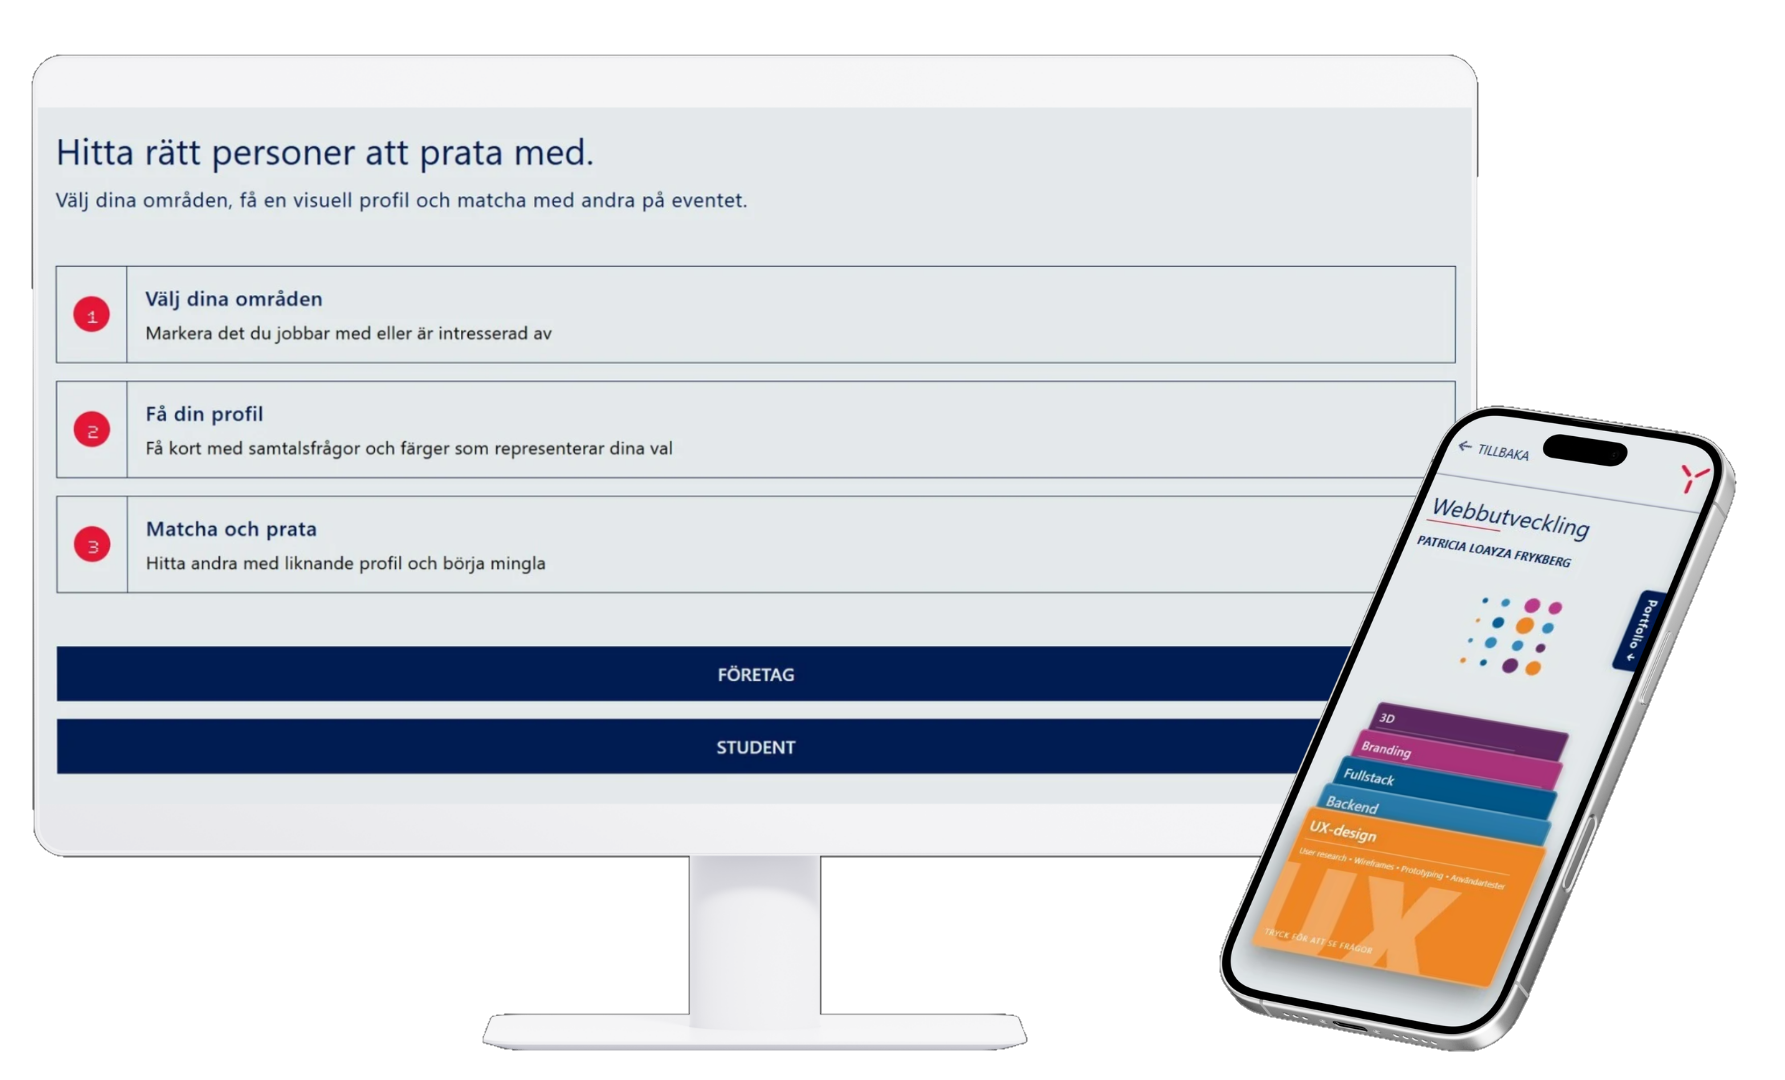
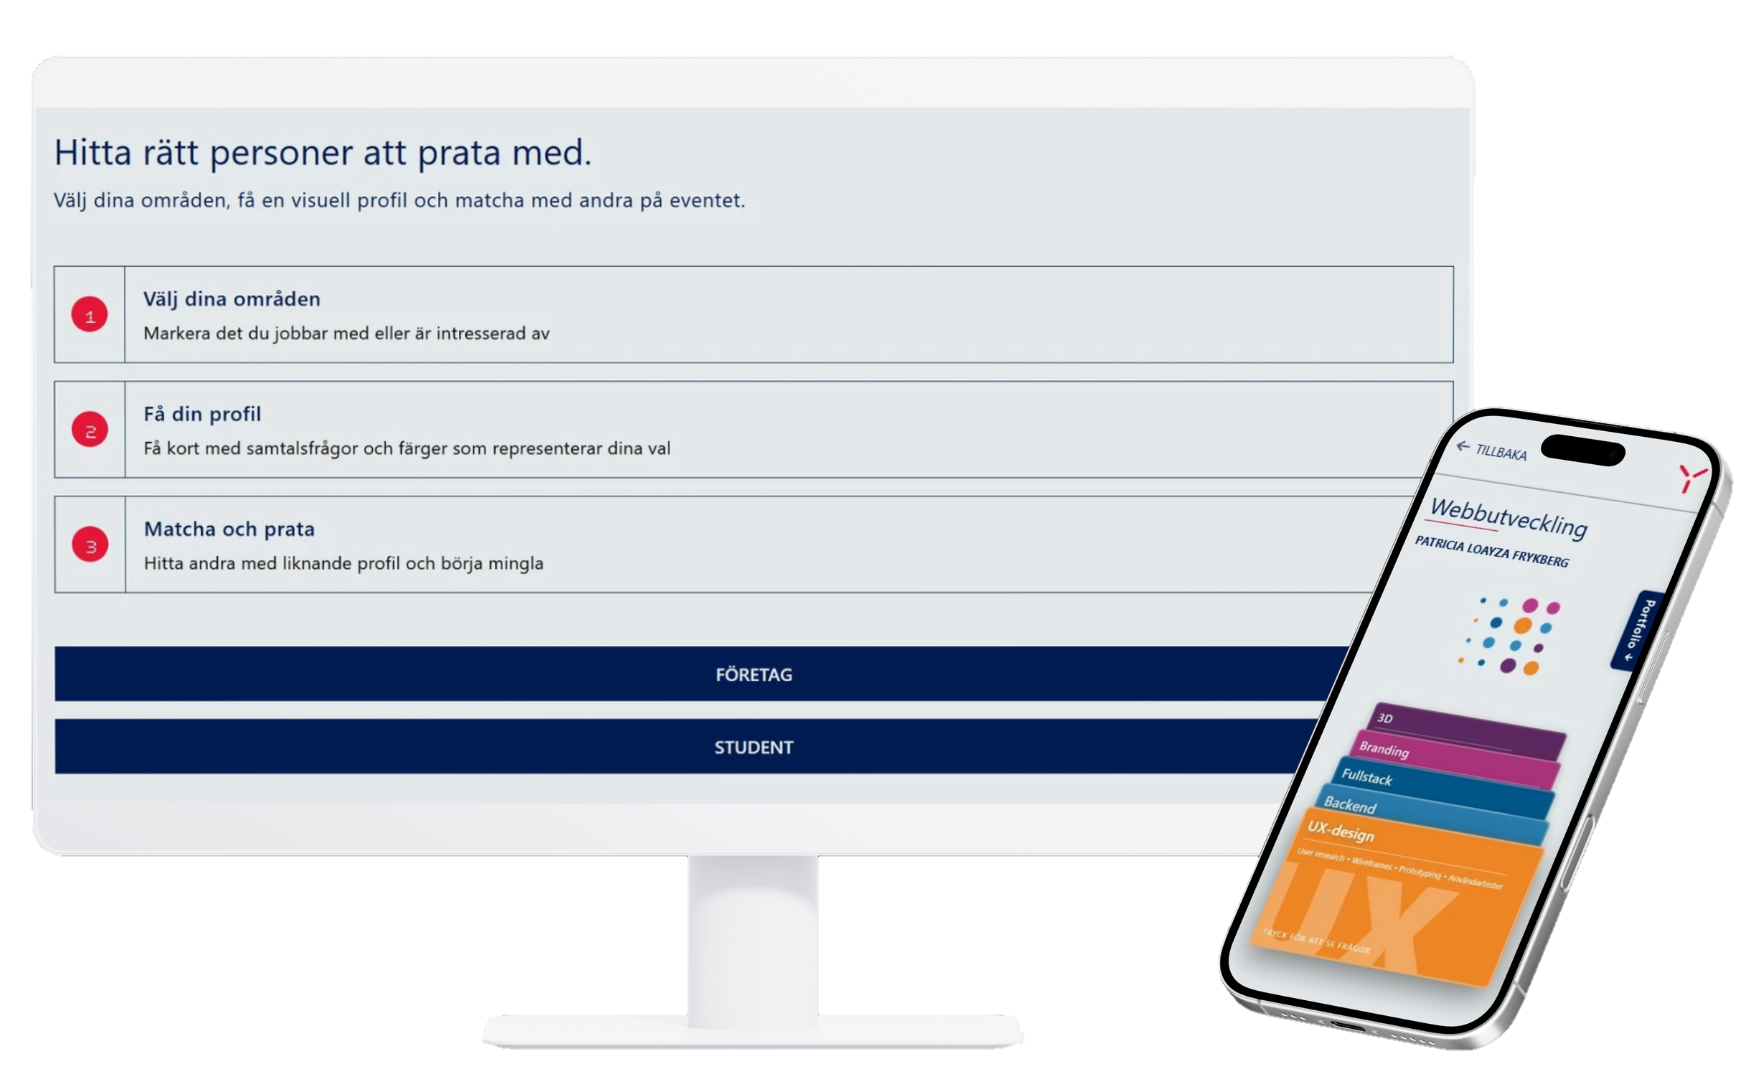
Added 3 projects in progress

diff --git a/css/hero.css b/css/hero.css
@@ -1,72 +1,70 @@
 /* hero & cta-button */
 #hero {
-    height: 100vh;
+  height: 100vh;
 }
 
 #hero p {
-    max-width: 700px;
-    margin: 0 auto;
-    text-align: center;
-    line-height: 1.6;
-    letter-spacing: 0.3px;
-    margin-bottom: 1.2rem;
+  max-width: 700px;
+  margin: 0 auto;
+  text-align: center;
+  line-height: 1.6;
+  letter-spacing: 0.3px;
+  margin-bottom: 1.2rem;
 }
 
 .subtitle {
-    font-size: 1.2rem;
-    font-weight: bold;
+  font-size: 1.5rem;
+  font-weight: bold;
 }
 
 .cta {
-    text-align: center;
+  text-align: center;
 }
 
 .cta a {
-    display: inline-block;
-    margin-right: 1rem;
-    margin-top: 1rem;
-    padding: 0.5rem 1rem;
-    border-radius: 6px;
-    background-color: var(--accent);
-    color: #fff;
-    text-decoration: none;
-    transition: background-color 0.2s, transform 0.2s;
+  display: inline-block;
+  margin-right: 1rem;
+  margin-top: 1rem;
+  padding: 0.5rem 1rem;
+  border-radius: 6px;
+  background-color: var(--accent);
+  color: #fff;
+  text-decoration: none;
+  transition: background-color 0.2s;
 }
 
 .cta a:hover {
-    background-color: #9d7aff;
-    transform: translateY(-2px);
+  background-color: #9d7aff;
 }
 
 .btn-download {
-    display: inline-flex;
-    align-items: center;
-    gap: 8px;
-    padding: 0.5rem 1rem;
-    border-radius: 6px;
-    background-color: var(--accent);
-    color: #fff;
-    text-decoration: none;
-    transition: background-color 0.2s, transform 0.2s;
+  display: inline-flex;
+  align-items: center;
+  gap: 8px;
+  padding: 0.5rem 1rem;
+  border-radius: 6px;
+  background-color: var(--accent);
+  color: #fff;
+  text-decoration: none;
+  transition: background-color 0.2s;
 }
 
 .btn-download:hover {
-    background-color: #9d7aff;
-    transform: translateY(-2px);
+  background-color: #9d7aff;
 }
 
 .btn-download svg {
-    width: 20px;
-    height: 20px;
+  width: 20px;
+  height: 20px;
 }
 
 @media screen and (max-width: 768px) {
-    #hero {
-        height: auto;
-        min-height: 100vh;
-    }
+  #hero {
+    height: auto;
+    min-height: 100vh;
+  }
 
-     #hero h1 {
-        font-size: 2rem;
-    }
+  #hero h1 {
+    font-size: 2rem;
+  }
 }

diff --git a/css/style.css b/css/style.css
@@ -1,5 +1,5 @@
 :root {
-  --bg-main: #1f2020;
+  --bg-main: #121212;
   --bg-surface: #2d2d2dbd;
   --bg-header: #2d2d2dbd;
 
@@ -59,7 +59,7 @@ main > section {
 /* Section headers */
 section h1,
 section h2 {
-  font-size: 3rem;
+  font-size: 5rem;
   margin-bottom: 20px;
   text-align: center;
   color: var(--text-primary);

diff --git a/css/project-page.css b/css/project-page.css
@@ -28,6 +28,7 @@ body.light .start-btn:hover {
 
 .project-title {
   text-align: center;
+  font-size: 4rem;
 }
 
 .project-meta {

diff --git a/data/projects.php b/data/projects.php
@@ -1,5 +1,62 @@
 <?php
 $projects = [
+    'Booking system' => [
+        'title' => 'Booking system',
+        'description' => 'Side project - A full-stack booking system built with a C# REST API and React — currently in progress.',
+        'longDescription' => 'This is a side project I started during the summer to deepen my understanding of C# and backend development. The goal is to build a complete booking system from scratch — something I’m likely to encounter if working as a consultant.
+        
+        The backend is built with ASP.NET Core Web API and Entity Framework Core, connected to a SQLite database. The frontend is built with React and TypeScript using Vite, with React Router for navigation.
+
+        So far the system supports creating and managing customers, services, and bookings — including automatic end time calculation based on service duration.
+
+        Currently working on: styling with CSS Modules.
+
+        Planned features: validation on the backend, a calendar view for available time slots, and authentication.',
+
+        'technologies' => ['C#', 'React', 'TypeScript', 'CSS modules', 'Vite'],
+        'demolink' => '',
+        'githubLink' => 'https://github.com/Patricia-LF/booking-system',
+        'image' => 'in-progress.png',
+        'mockup' => 'in-progress-booking-desktop.png',
+        'mock-mob' => 'in-progress-booking-mob.png',
+    ],
+
+    'TextTV online' => [
+        'title' => 'TextTV online',
+        'description' => 'Side project — a modern, accessible take on TextTV, built with Node.js. Currently in progress.',
+        'longDescription' => 'I started this project during the summer to deepen my understanding of Node.js. My dad still reads TextTV every day, and I know a lot of older people do too — so the idea was to bring that same simplicity online, but with a more modern look and stronger focus on accessibility (WCAG).
+        
+        The app fetches live content from a public TextTV API and presents it through clear, navigable sections: domestic news, foreign news, sports, and weather. The start page gives a quick overview of each, with dedicated pages for the full content.
+        
+        Currently working on: a page-number search feature, and refining the content layout and styling section by section.
+        
+        Planned features: improved error handling for the API integration, and a settings panel for font size and contrast — small touches aimed at making the experience more comfortable for less tech-savvy users.',
+
+        'technologies' => ['Node.js', 'CSS'],
+        'demolink' => '',
+        'githubLink' => 'https://github.com/Patricia-LF/textTVonline',
+        'image' => 'in-progress.png',
+        'mockup' => 'in-progress-textTV-desktop.png',
+        'mock-mob' => 'in-progress-textTV-mob.png',
+    ],
+
+    'Almas portfolio' => [
+        'title' => 'Almas portfolio',
+        'description' => 'Side project — a portfolio website for a design student, built with WordPress. Currently in progress.',
+        'longDescription' => 'Alma, a graphic design and production student at Yrgo, needed help creating a portfolio site. I took on this project as a way to deepen my WordPress skills outside of school.
+
+    I\'ve planned and led the project from start to finish in close collaboration with Alma — from concept and design to development — with her approval at every step along the way.
+
+    Currently working on: final details and refinements before launch.',
+
+        'technologies' => ['WordPress', 'CSS'],
+        'demolink' => '',
+        'githubLink' => 'https://github.com/Patricia-LF/Almas-portfolio',
+        'image' => 'in-progress.png',
+        'mockup' => 'in-progress-portfolio-desktop.png',
+        'mock-mob' => 'in-progress-portfolio-mob.png',
+    ],
+
     'wack-a-rabbit' => [
         'title' => 'Wack-a-rabbit',
         'description' => 'Side project - a fun take on the classic Whack-a-Mole',
@@ -10,6 +67,7 @@ $projects = [
         The trickiest part was getting the z-index and positioning right so that the rabbits appear to come up from inside the holes rather than popping up in front of or behind them — a small detail that makes a big visual difference for the feel of the game.
 
         There is plenty of room to expand the game — multiple difficulty levels with increasing rabbit speed, user accounts with saved scores, and a leaderboard are all ideas I would like to explore if I return to the project.',
+
         'technologies' => ['PHP', 'JavaScript', 'HTML', 'CSS'],
         'demolink' => 'https://wu-project.se/wack-a-rabbit/',
         'githubLink' => 'https://github.com/Patricia-LF/wack-a-rabbit',
@@ -23,15 +81,15 @@ $projects = [
         'description' => 'Haunted house attraction built for the Yrgo Tivoli',
         'meta' => 'Group project – 3 people | 3 weeks',
         'longDescription' => 'Runtime Terror is a haunted house attraction built as part of the Yrgo Tivoli project — a shared amusement park platform where each group contributed their own game or ride. The attraction takes the player through four rooms of horrors: a graveyard, a doll room, a spider room and a clown room, each with its own interactions, animations and sound design.
-
-    Features
-    Each room has unique mechanics — clicking gravestones to trigger effects in the graveyard, making the doll speak (and risking a jumpscare) in the doll room, removing spider webs and finding and clicking on a ghost in the spider room, and popping balloons to keep the clown at bay in the clown room. Rooms are connected by animated door transitions with crossfading ambient sound. A context-sensitive help button in each room meets WCAG 3.3.5 requirements, and the full game is keyboard navigable with screen reader support.
-
-    My responsibilities
-    I held the frontend lead role and was responsible for the overall visual direction, design system and component architecture. I built the start page, the graveyard the doll and the clown rooms, the spider drop animation, the bat sprite animation, fog effects, the golden key animation, the door transition component, the loading screen and the end page. I also contributed to the Zustand game state store, audio management with Howler.js, and the overall layout and styling across the project.
-
-    Challenges
-    Coordinating room-level audio across a shared Zustand store — ensuring ambient sound crossfaded correctly between rooms while effect sounds stopped on room exit — required careful architecture. Getting the haunted house atmosphere to feel right on both mobile and desktop, while meeting accessibility requirements, was a balancing act that pushed us to make deliberate decisions at every step.',
+        
+        Features
+        Each room has unique mechanics — clicking gravestones to trigger effects in the graveyard, making the doll speak (and risking a jumpscare) in the doll room, removing spider webs and finding and clicking on a ghost in the spider room, and popping balloons to keep the clown at bay in the clown room. Rooms are connected by animated door transitions with crossfading ambient sound. A context-sensitive help button in each room meets WCAG 3.3.5 requirements, and the full game is keyboard navigable with screen reader support.
+        
+        My responsibilities
+        I held the frontend lead role and was responsible for the overall visual direction, design system and component architecture. I built the start page, the graveyard the doll and the clown rooms, the spider drop animation, the bat sprite animation, fog effects, the golden key animation, the door transition component, the loading screen and the end page. I also contributed to the Zustand game state store, audio management with Howler.js, and the overall layout and styling across the project.
+        
+        Challenges
+        Coordinating room-level audio across a shared Zustand store — ensuring ambient sound crossfaded correctly between rooms while effect sounds stopped on room exit — required careful architecture. Getting the haunted house atmosphere to feel right on both mobile and desktop, while meeting accessibility requirements, was a balancing act that pushed us to make deliberate decisions at every step.',
 
         'technologies' => ['React', 'Next.js', 'TypeScript', 'Tailwind', 'Framer Motion', 'Howler.js', 'Zustand'],
         'demolink' => 'https://runtime-terror-app.vercel.app/',
@@ -57,6 +115,7 @@ $projects = [
 
     Challenges
     Building a smooth card stack with touch-based scroll on mobile required significant iteration to get the interaction feeling right. Collaborating across disciplines — aligning on concept and design decisions with the design students while keeping the codebase clean — was both a challenge and one of the most rewarding parts of the project.',
+
         'technologies' => ['React', 'JavaScript', 'CSS modules', 'Vite', 'Figma'],
         'demolink' => ' https://lia-connect-chi.vercel.app/',
         'githubLink' => 'https://github.com/Patricia-LF/LIA-connect',
@@ -82,6 +141,7 @@ $projects = [
         Working with Eloquent relationships and pivot tables required careful planning of the database structure. Keeping the styling consistent across multiple views while both of us were actively developing new features at the same time was also a challenge that required good communication and clear code reviews.
         
         Note: The site is not optimized for mobile, as it was not a requirement for the assignment.',
+
         'technologies' => ['PHP', 'Laravel', 'JavaScript', 'HTML', 'CSS'],
         'demolink' => 'https://cloudops.on-forge.com/',
         'githubLink' => 'https://github.com/Patricia-LF/CloudOps.git',
@@ -99,6 +159,7 @@ $projects = [
         I was responsible for all frontend development and shaping the visual identity of the application, from layout design to creating the logo in Figma. On the backend side, I implemented the integration against the Spoonacular REST API, developed server logic for handling and filtering API responses, and set up email functionality using SMTP and Nodemailer.
 
         Working with asynchronous data handling and extensive error handling was a key challenge — making sure the app handled failed API calls gracefully without breaking the user experience.',
+
         'technologies' => ['JavaScript', 'Node.js', 'HTML', 'CSS'],
         'demolink' => 'https://plan2plate-recipes.vercel.app/',
         'githubLink' => 'https://github.com/Patricia-LF/plan2plate.git',
@@ -118,6 +179,7 @@ $projects = [
         Working from a Figma design created by others required close attention to detail to make sure the implementation matched the intended design. Collaborating across disciplines also meant adapting to different workflows and ways of communicating.. 
         
         Since it was our first group project with other educations, we learnt a lot about how to work in a team.',
+
         'technologies' => ['PHP', 'HTML', 'CSS', 'Figma'],
         'demolink' => 'https://wu-project.se/kinforma/',
         'githubLink' => 'https://github.com/Patricia-LF/kinforma',
@@ -136,6 +198,7 @@ $projects = [
         Getting the availability logic right was tricky — making sure overlapping bookings were correctly handled in the database required careful planning of the query structure.
         
         Note: The site is not optimized for mobile, as it was not a requirement for the assignment. This is something I plan to address if I revisit the project.',
+
         'technologies' => ['PHP', 'JavaScript', 'HTML', 'CSS'],
         'demolink' => 'https://wu-project.se/yrgopelag/',
         'githubLink' => 'https://github.com/Patricia-LF/yrgopelag.git',
@@ -153,6 +216,7 @@ $projects = [
         As an individual project, I handled everything from the API integration and JavaScript logic to the page structure and styling.
 
         This was my first real encounter with JavaScript, and I found it genuinely difficult at first — particularly understanding how asynchronous code and fetch requests work. I used AI as a learning tool to understand the concepts rather than just getting the answers, which helped me work through the logic step by step. In the end it turned out to be one of my more successful early projects, and it gave me a much stronger foundation in JavaScript going forward.',
+
         'technologies' => ['JavaScript', 'HTML', 'CSS'],
         'demolink' => 'https://wu-project.se/API/',
         'githubLink' => 'https://github.com/Patricia-LF/API.git',
@@ -170,6 +234,7 @@ $projects = [
         Two out of three group members, myself included, were particularly engaged in the design work and each created our own Figma drafts. We then combined the best elements from both into a final design. On the development side, I was responsible for the film page and its mobile version, parts of the landing page, and a hamburger menu for mobile navigation.
 
         The biggest technical challenge was Git — we ran into several merge conflicts that took time to resolve, which was a valuable lesson in version control and team workflows. We were also working on Kinforma simultaneously, which meant time was stretched a bit thin. Since the course focus was on design rather than code, some parts of the site are not fully functional, but the Figma-to-code workflow was a great learning experience.',
+
         'technologies' => ['Figma', 'PHP', 'CSS'],
         'demolink' => 'https://wu-project.se/bio-hemsida/',
         'githubLink' => 'https://github.com/Patricia-LF/bio-hemsida',

diff --git a/index.php b/index.php
@@ -196,7 +196,7 @@ require_once 'functions/helpers.php';
                 <div class="about-me">
                     <article class="about-text">
                         <p>
-                            I’m currently studying Web Development at Yrgo in Gothenburg, focusing on creating structured and maintainable applications. I enjoy seeing how systems work behind the scenes and building solutions that are both logical and user-friendly. This semester, I’m expanding my toolkit with C#, Laravel, React.js, Next.js, TypeScript, and WordPress, giving me a mix of backend depth and frontend flexibility.
+                            I'm currently studying Web Development at Yrgo in Gothenburg, focusing on creating structured and maintainable applications. I enjoy seeing how systems work behind the scenes and building solutions that are both logical and user-friendly. My first year covered a broad foundation — starting with HTML, CSS, JavaScript, PHP, Figma, and databases like SQLite, MySQL, and MongoDB, then building on that with Node.js, React, Next.js, TypeScript, Laravel, Tailwind, and C#. I'll be continuing my studies this autumn.
                         </p>
                         <p>
                             I'm also comfortable using AI as a learning and productivity tool — not as a shortcut, but as a way to deepen my understanding and work more efficiently. In a field that's evolving rapidly, knowing how to leverage the right tools is just as important as the fundamentals.
@@ -205,8 +205,9 @@ require_once 'functions/helpers.php';
                             With a background as a Biomedical Analyst and a passion for computers and organizing data, moving into web development felt like a natural next step. Outside of coding, I enjoy exploring creative outlets – painting, 3D graphics in Blender, and digital design – which helps me bring a visual perspective to the applications I build. I’m fascinated by how creativity and logic can come together to create digital experiences that are both functional and beautiful.
                         </p>
                         <p>
-                            Alongside my studies, I'm working on two side projects — a Node.js-based online text-TV service and a React application currently in the planning stage.
+                            Alongside my studies, I'm working as a Biomedical Analyst at Sahlgrenska University Hospital this summer, and in my spare time I'm working on three side projects: a Node.js-based online TextTV service, a full-stack booking system built with React and ASP.NET Core, and a WordPress portfolio for a fellow student.
                         </p>
+
                         <div class="signature">
                             <?php require 'includes/signature.php'; ?>
                         </div>
